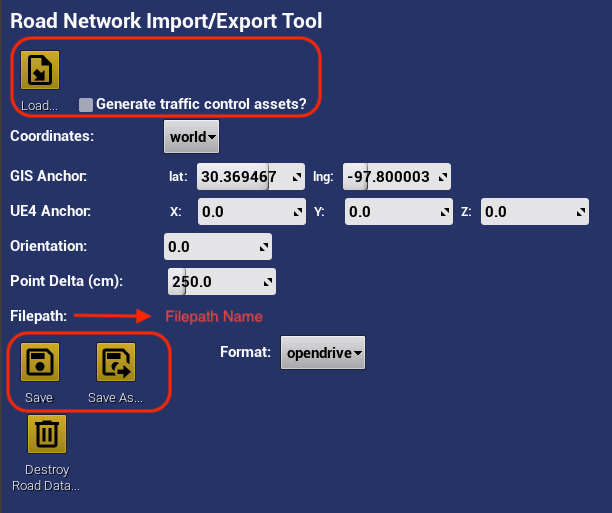
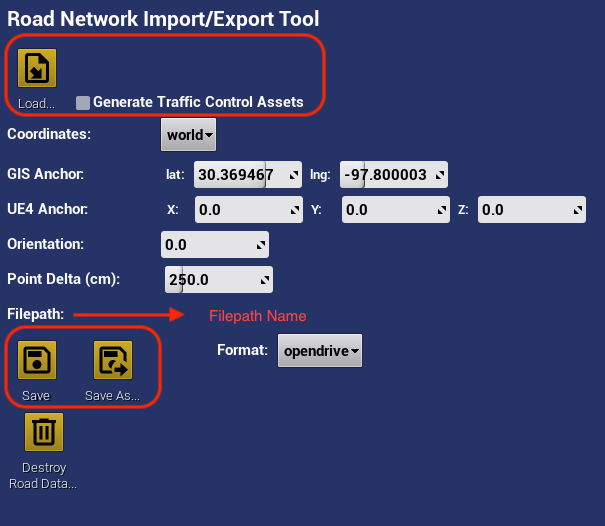
updated picture and text for road importer tool as suggested in pr

Changed region(s): [[0.0, 0.0, 0.9818, 1.0]]

diff --git a/docs/scenario_editor/roads.md b/docs/scenario_editor/roads.md
@@ -27,7 +27,7 @@ OpenDrive can be loaded from file by:
 
 * Providing the path to an `.xodr` file into the "Filename" field and clicking "Load"
 
-* If "Generate traffic control assets?" is checked, the traffic control assets such as light poles, stop signs, and yield signs will be included, otherwise it will just spawn the road and traffic control devices. 
+* If "Generate traffic control assets" is checked, the traffic control assets such as light poles, stop signs, and yield signs will be included, otherwise it will just spawn the road and traffic control devices. 
 
 * The road definitions should appear in the `monoDriveRoadNetwork` directory in the "World Outliner"
 
